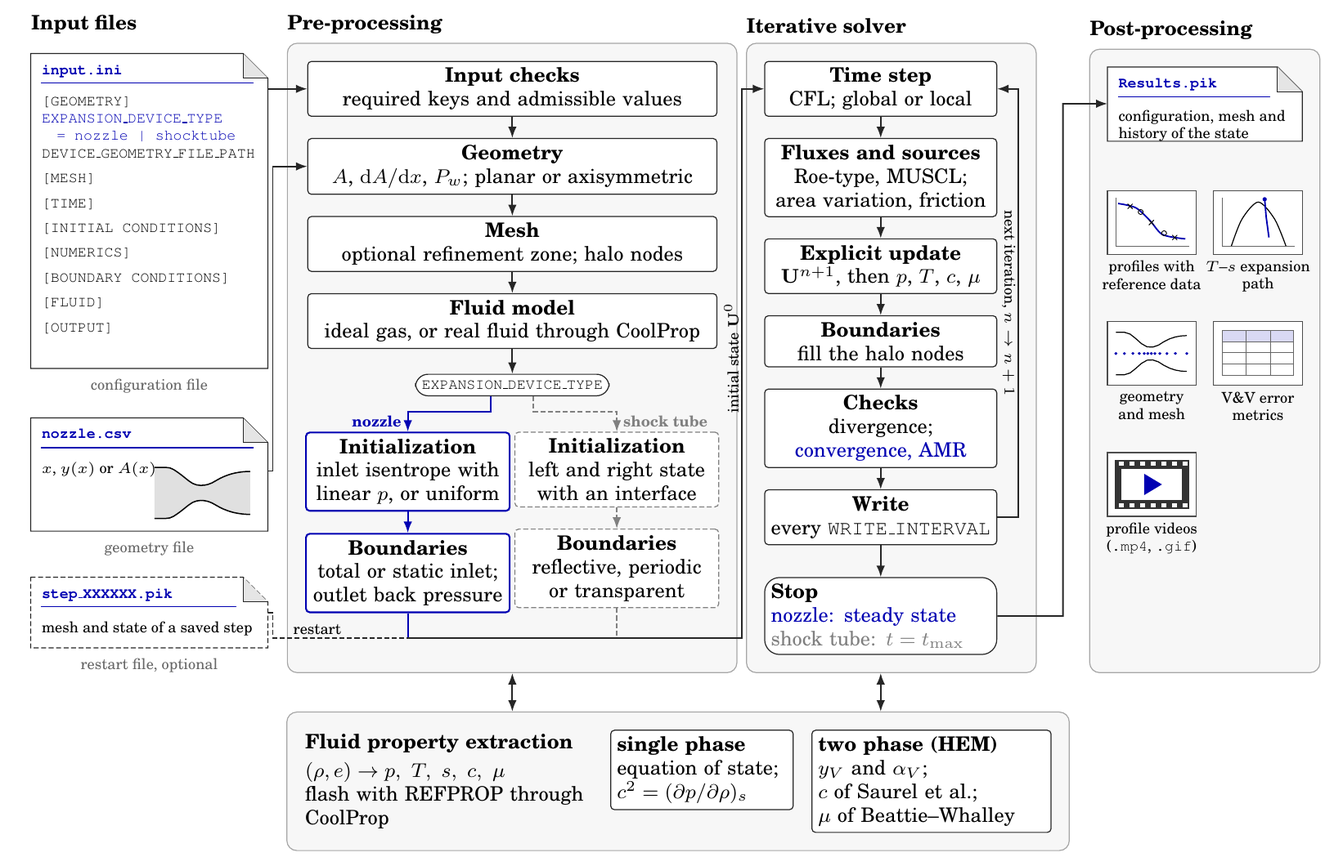
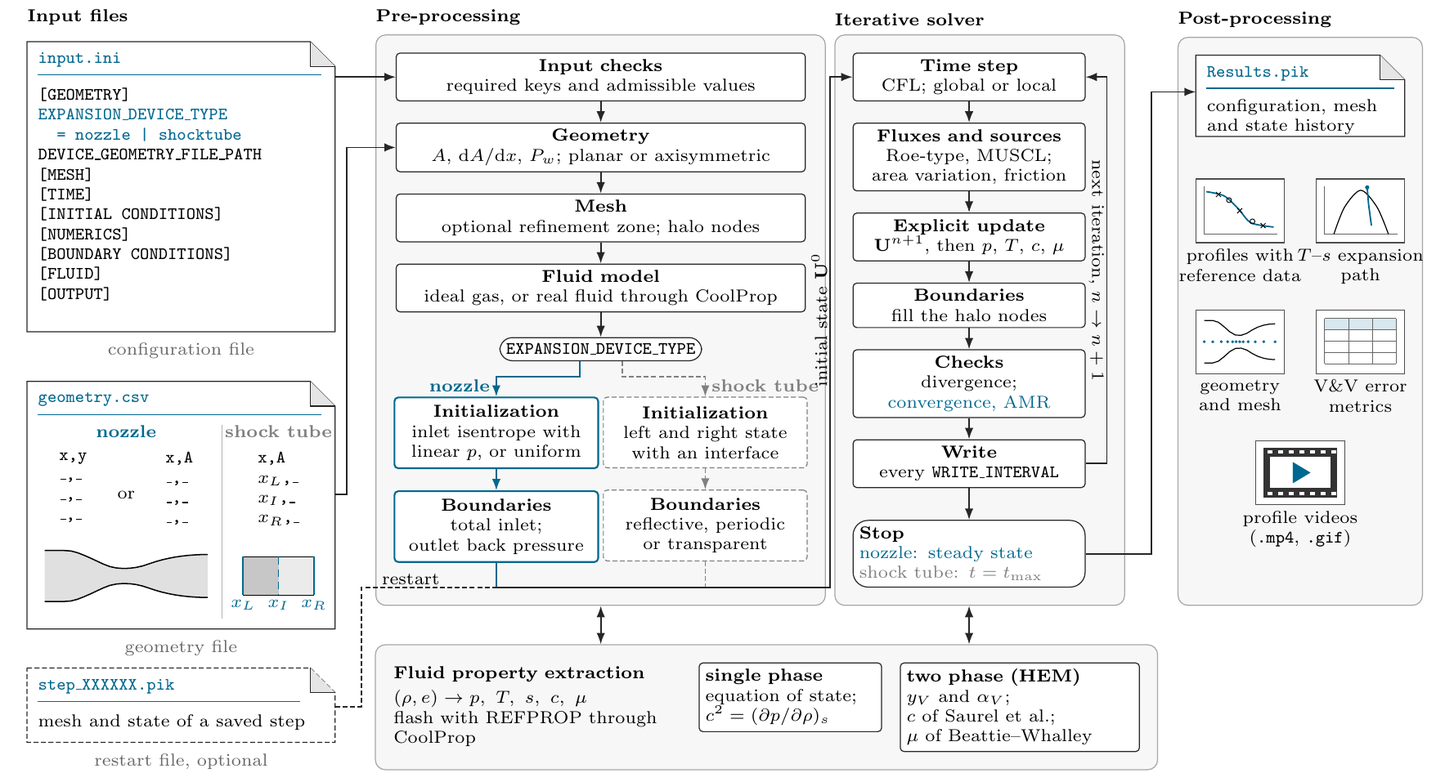
adapted readme and documentation

Changed region(s): [[0.0, 0.0, 0.9939, 1.0], [0.8076, 0.7576, 0.9629, 0.7879], [0.0621, 0.4242, 0.1864, 0.4545]]

diff --git a/README.md b/README.md
@@ -1,73 +1,69 @@
-# Conceptual Heat Pump Cycle (CHPC)
+# PyShockFlow
 
-This tool identifies the vapour-compression cycle with maximum COP for a given set of heat source and heat sink characteristics, heat exchanger pinch-point constraints, component efficiencies and refrigerant. The cycle is a single-stage vapour-compression cycle in which the expansion valve is replaced by a turbine expander. It follows from a differential evolution optimization of the compressor pressure ratio, the temperature and entropy at the compressor inlet, and the temperature at the condenser outlet, subject to the pinch-point constraints of the evaporator and condenser. The figure below shows the resulting cycle of R1234ze(E), together with the expansion through an isentropic turbine and through an expansion valve. The diagram background is generated with [thermoplot](https://github.com/mths-mhln/thermoplot), of which a local copy is included in `src/thermoplot`.
+PyShockFlow solves the quasi-1D Euler equations for the flow of an ideal gas or a real fluid through a duct of varying cross-section. It was originally developed for shock tubes, and has been extended to the steady flow through converging-diverging nozzles, including flashing and condensing two-phase flows. In the two-phase region, the equations are closed by the homogeneous equilibrium model (HEM), with thermophysical properties from NIST REFPROP through CoolProp. The equations are discretized with a finite-volume method, Roe-type numerical fluxes and explicit time marching to the steady state.
 
-The documentation can be found at [mths-mhln.github.io/CHPCT](https://mths-mhln.github.io/CHPCT/).
+The documentation is published at [mths-mhln.github.io/pyshockflow](https://mths-mhln.github.io/pyshockflow/), and covers the installation, running a simulation, all inputs of the configuration file, the model and the post-processing. Its sources are in `docs/`, from which it is built locally with Sphinx:
 
-![Conceptual heat pump cycle of R1234ze(E) in a T-s diagram](images/hp_cycle_TS.png)
+```bash
+uv pip install -r docs/requirements.txt
+cd docs
+make html
+```
 
-## Dependencies
-
-- Python 3.13 or newer
-- CoolProp, matplotlib, numpy, rich and scipy, see `pyproject.toml`. The exact versions are recorded in `uv.lock`.
-- NIST REFPROP. All thermodynamic properties are extracted from REFPROP through CoolProp, hence a REFPROP licence and installation are necessary.
-- A LaTeX installation, which is used for the text in the diagrams.
+after which the pages are found in `docs/build/html/index.html`.
 
 ## Installation
 
-Clone the repository, create a virtual environment with [uv](https://docs.astral.sh/uv/) and install the tool in editable mode, which makes both `CHPC` and the local copy of `thermoplot` importable:
+The tool requires Python 3.12 or newer. Clone the repository, create a virtual environment with [uv](https://docs.astral.sh/uv/) and install the packages in editable mode:
 
 ```bash
-git clone https://github.com/mths-mhln/CHPCT.git
-cd CHPCT
+git clone https://github.com/mths-mhln/pyshockflow.git
+cd pyshockflow
 uv venv
 .venv\Scripts\activate
 uv pip install -e .
 ```
 
-On Linux and macOS the environment is activated with `source .venv/bin/activate`.
+On Linux and macOS the environment is activated with `source .venv/bin/activate`. Real-fluid and two-phase simulations with REFPROP require a REFPROP licence and installation, in a location where CoolProp can find it.
 
-## Source structure
+The installation is checked by running the automated tests from the root folder:
 
-The Python package is organized by responsibility:
-
-| Folder | Contents |
-| --- | --- |
-| `src/CHPC/cycle_evaluation/` | Thermodynamic cycle solvers and cycle data generation |
-| `src/CHPC/post_processing/` | Diagrams and post-processing studies, including the global optimum, perturbation and calculation-method comparisons |
-| `src/CHPC/utils/` | Configuration parsing, result serialization and logging |
-| `src/CHPC/COP_vs_eff/` | COP versus component-efficiency sweep |
+```bash
+uv run pytest test/regression_tests/test_cases.py
+uv run pytest test/integration_tests/test_fluid.py
+```
 
 ## How to run
 
-Running the tool and post-processing its results are separated. `main.py` runs the analysis specified in the config file at the top of the script, and saves the results as `.npz` files in `results/`. Afterwards, `postprocess.py` makes the diagrams from these files:
+A simulation is defined by a configuration file (`.ini`) and a geometry file (`.csv`), and is run from a short script in the folder that contains them:
 
-```bash
-python main.py
-python postprocess.py
+```python
+from pyshockflow import Config, Driver
+
+config = Config(configFilePath="inputs/config_files/lettieri/L1_smooth.ini")
+driver = Driver(config=config)
+driver.solve()
 ```
 
-Before the analysis, `main.py` can verify the model against pocketTHERM for three heat pump cycles (see `test/system_tests`), which is switched on with `perform_verification=True` at the bottom of `main.py`. The refrigerant folders in `config/` contain two kinds of config files:
+The results are written to `Results/<RESULTS_SUBDIRECTORY_NAME>/Results.pik`, and are plotted with the functions in `pyshockflow.post_processing`. The folders in `test/regression_tests/` are the smallest complete examples, and `numerical_experiments/nozzle_steady_two_phase/` contains the two-phase nozzle cases, together with `main.py` and `postprocess.py`.
 
-| Config file | Analysis | Results |
-| --- | --- | --- |
-| `CHPC.ini` | optimizes a single cycle and prints its performance parameters, including the volumetric expansion ratio over the turbine | T-s, p-h and optimizer progress diagrams in `results/heat_pump_thermodynamic_diagrams/<refrigerant>/` |
-| `COP_vs_eff.ini` | optimizes the cycle for a grid of turbine and compressor efficiencies | COP maps in `results/COP_investigations/<refrigerant>/` |
+## Contribution guidelines
 
-The COP sweep saves its progress every 5 cycles, and can be continued after an interruption. The figure below shows the COP map of R1234ze(E).
+- Verify modifications with detailed test cases.
+- Make sure that the regression tests still pass, and extend them if needed.
 
-![COP of R1234ze(E) as a function of the turbine and compressor efficiency](images/COP_vs_eff.png)
+## Authors
 
-The cycle calculation method is selected with `calculation_method`. `full_optimization` optimizes the four variables above, `fixed_PR` optimizes the compressor inlet state and the condenser outlet temperature at a given pressure ratio, and `three_temp_fix` fixes four temperature differences and only optimizes the pressure ratio (the implementation is in `src/CHPC/cycle_evaluation/thermodynamics_three_temp_fix.py`). Results of the latter two methods carry the method in their file name, e.g. `COP_vs_eff_R1234ze(E)_COP_turb_three_temp_fix.npz`, such that the methods can be compared with
+- Francesco Neri, TU Delft, original PyShockFlow
+- Matteo Pini, TU Delft, original PyShockFlow
+- Matthias Van Mechelen, nozzle and two-phase extensions (MSc thesis *Towards Turbine-Induced Expansion in High-Temperature Heat Pumps*, TU Delft, 2026)
 
-```bash
-python -m CHPC.post_processing.calculation_method_comparison --data-dir "results/COP_investigations/R1234ze(E)/data"
-```
+## References
 
-Two investigations support the results of the thesis, and are run as modules from the root of the repository. `python -m CHPC.post_processing.global_optimum_check` repeats the optimization of a cycle for several seeds of the differential evolution algorithm, and shows the coverage of the design space by the evaluated candidates. `python -m CHPC.post_processing.perturbation_study` perturbs the cycle specifications of the R1234ze(E), CO2 and MM config files one at a time by -20 % and +20 %, and evaluates the optimal cycle of every configuration in parallel.
+[1] E. F. Toro, *Riemann Solvers and Numerical Methods for Fluid Dynamics*, Springer, 2009.
 
-`postprocess.py` also contains the empty T-s and p-h diagrams of a substance. The margins around the cycle and the size of the optimizer progress figure are arguments of `make_cycle_plots`, and the diagram backgrounds are specified in `config/thermoplot/`.
+[2] S. Arabi, J.-Y. Trépanier and R. Camarero, "A simple extension of Roe's scheme for real gases", *Journal of Computational Physics* 329, 16-28, 2017.
 
-## Input overview
+[3] A. Cioffi, A. Bergamin, R. Agromayor and F. Haglind, "A hyperbolic one-dimensional model for two-phase flows in converging-diverging nozzles", *Journal of Turbomachinery* 148(3), 031017, 2025.
 
-The config file is an `.ini` file with the sections `[ANALYSIS TYPE]`, `[ANALYSIS SPECIFICATIONS]`, `[COP VS EFF SETTINGS]` (`COP_vs_eff` only) and `[NUMERICS]`, see `config/R1234ze(E)/CHPC.ini` for an example. Inputs that are not used by the specified analysis type and calculation method must not be specified, e.g. `PR` for `full_optimization`. An overview of all inputs is given in the [documentation](https://mths-mhln.github.io/CHPCT/inputs.html).
+[4] S. D'Alessandro, M. Pizzarelli and F. Nasuti, "A hybrid real/ideal gas mixture computational framework to capture wave propagation in liquid rocket combustion chamber conditions", *Aerospace* 8(9), 250, 2021.

diff --git a/docs/source/model.rst b/docs/source/model.rst
@@ -82,7 +82,7 @@ Numerical fluxes
      - averaged pressure derivatives that satisfy the Roe property, after Vinokur and Montagné [Vinokur1990]_
      - ideal gas and real fluid, including the HEM
 
-The Roe-Arabi scheme was used for the two-phase cases of the thesis, since the derivatives of the equilibrium equation of state are discontinuous at the saturation line. The Roe-type schemes optionally apply the entropy fix of Harten and Hyman, which prevents non-physical expansion shocks at a sonic throat. Second-order accuracy in space is obtained with MUSCL reconstruction of the primitive variables, which is not yet robust for all two-phase cases.
+The Roe-Arabi scheme was used for the two-phase cases of the thesis, since the derivatives of the equilibrium equation of state are discontinuous at the saturation line. The Roe-type schemes optionally apply the entropy fix of Harten and Hyman [Harten1983]_, which prevents non-physical expansion shocks at a sonic throat. Second-order accuracy in space is obtained with MUSCL reconstruction of the primitive variables, which is not yet robust for all two-phase cases.
 
 Initialization
 --------------
@@ -127,10 +127,12 @@ The boundary conditions are imposed in the halo nodes, following [Toro2009]_. Th
 
 An outlet switches automatically to a transparent boundary once the Mach number of the adjacent interior node exceeds one. Since the HEM speed of sound is that of the solved system, this switch is consistent with the model in the two-phase region.
 
+Static inlet conditions are not supported. The static inlet state depends on the mass flow, and thus on the solution itself, and a fixed static pressure reflects the acoustic waves that reach the inlet during the transient, which can slow down the convergence.
+
 Wall friction
 -------------
 
-The wall shear stress follows from the Darcy friction factor :math:`f`, evaluated with the correlation of Haaland,
+The wall shear stress follows from the Darcy friction factor :math:`f`, evaluated with the correlation of Haaland [Haaland1983]_,
 
 .. math::
 
@@ -138,7 +140,7 @@ The wall shear stress follows from the Darcy friction factor :math:`f`, evaluate
    \frac{1}{\sqrt{f}} = -1.81\,\log_{10}\left[\frac{6.9}{\mathrm{Re}} + \left(\frac{\varepsilon/D}{3.7}\right)^{1.11}\right], \qquad
    \mathrm{Re} = \frac{\rho |u| D}{\mu},
 
-with :math:`D = 2y` and :math:`\varepsilon` the wall roughness. In the two-phase region, :math:`\mu` is the Beattie-Whalley viscosity, so that the friction relies on a single-phase correlation with a mixture viscosity.
+with :math:`D = 2y` and :math:`\varepsilon` the wall roughness. In the two-phase region, :math:`\mu` is the Beattie-Whalley viscosity [Beattie1982]_, so that the friction relies on a single-phase correlation with a mixture viscosity. Both were derived for flows in channels of constant cross-section, and have not been validated for short, strongly accelerating two-phase nozzle flows. Wall friction is optional, so that the frictionless solution, against which other authors report their results, remains available.
 
 Convergence and mesh refinement
 -------------------------------
@@ -151,15 +153,17 @@ A nozzle simulation counts an iteration as converged if
 
 and stops once this holds for :math:`N_p` consecutive iterations (``CONVERGENCE_TOLERANCE`` and ``CONVERGENCE_PATIENCE``). The maximum norm does not let a large local change be averaged out over the domain, and the patience prevents a stop during a momentary stagnation of the transient.
 
-With the automated mesh refinement, the number of nodes is doubled after every converged solution, the converged density, velocity and pressure are interpolated onto the new mesh, and the time marching restarts. Since the first converged solution has no coarser counterpart, the mesh is refined at least once. The refinement ends when the solutions on two successive meshes differ by less than ``RELATIVE_AMR_TOLERANCE``. Despite its name, the option refines the entire mesh rather than local regions.
+Converging a fine mesh from the initial field can take long, and most of this time is spent on the transient, which need not be resolved on the final mesh. With the automated mesh refinement, the simulation therefore starts on a coarse mesh, and the number of nodes is doubled after every converged solution, the converged density, velocity and pressure are interpolated onto the new mesh, and the time marching restarts. Since the first converged solution has no coarser counterpart, the mesh is refined at least once. The refinement ends when the solutions on two successive meshes differ by less than ``RELATIVE_AMR_TOLERANCE``, so that the comparison of successive meshes doubles as a mesh convergence study. For the cases of Berana et al., this reduced the run time from up to 20 hours to 1.5 hours. Despite its name, the option refines the entire mesh rather than local regions.
 
 Limitations
 -----------
 
 - Equilibrium only: metastable liquid, delayed flashing and finite-rate phase change are not resolved, so the critical mass flux of short nozzles with subcooled or low-quality inlets is under-predicted.
 - Quasi-1D: boundary layers, oblique shocks and lateral phase separation are absent. Planar nozzles are treated with unit depth, which underestimates the friction on the side walls of narrow test sections.
-- The discontinuous HEM speed of sound can destabilize the Roe-type schemes at low vapour fractions.
-- The explicit scheme is limited by the CFL condition, and the iterative :math:`(\rho, e)` flash dominates the run time of a two-phase simulation.
+- Closures: the walls are adiabatic, and the two-phase friction relies on a single-phase correlation with a mixture viscosity.
+- Outlet: once the exit is supersonic, the outlet becomes transparent. A back pressure high enough to drive a shock into the nozzle is therefore ignored if the exit becomes supersonic during the transient, so that the converged solution can depend on the initialization.
+- The discontinuous HEM speed of sound can destabilize the Roe-type schemes at low vapour fractions, and MUSCL reconstruction is not yet robust for all two-phase cases.
+- The explicit scheme is limited by the CFL condition, and the iterative :math:`(\rho, e)` flash dominates the run time of a two-phase simulation. Case L1 of Lettieri et al. runs in about 3 minutes, the cases of Berana et al. in 1.5 hours with the automated mesh refinement.
 
 References
 ----------
@@ -169,5 +173,8 @@ References
 .. [Arabi2017] S. Arabi, J.-Y. Trépanier and R. Camarero, "A simple extension of Roe's scheme for real gases", *Journal of Computational Physics* 329, 16-28, 2017.
 .. [Vinokur1990] M. Vinokur and J.-L. Montagné, "Generalized flux-vector splitting and Roe average for an equilibrium real gas", *Journal of Computational Physics* 89(2), 276-300, 1990.
 
-.. [Cioffi2025] A. Cioffi, A. Bergamin, R. Agromayor and F. Haglind, "A hyperbolic one-dimensional model for two-phase flows in converging-diverging nozzles", *Journal of Turbomachinery* 148(3), 031017, 2026.
+.. [Cioffi2025] A. Cioffi, A. Bergamin, R. Agromayor and F. Haglind, "A hyperbolic one-dimensional model for two-phase flows in converging-diverging nozzles", *Journal of Turbomachinery* 148(3), 031017, 2025.
+.. [Harten1983] A. Harten and J. M. Hyman, "Self-adjusting grid methods for one-dimensional hyperbolic conservation laws", *Journal of Computational Physics* 50(2), 235-269, 1983.
+.. [Haaland1983] S. E. Haaland, "Simple and explicit formulas for the friction factor in turbulent pipe flow", *Journal of Fluids Engineering* 105(1), 89-90, 1983.
+.. [Beattie1982] D. R. H. Beattie and P. B. Whalley, "A simple two-phase frictional pressure drop calculation method", *International Journal of Multiphase Flow* 8(1), 83-87, 1982.
 .. [Toro2009] E. F. Toro, *Riemann Solvers and Numerical Methods for Fluid Dynamics*, 3rd ed., Springer, 2009.

diff --git a/docs/source/post_processing.rst b/docs/source/post_processing.rst
@@ -6,7 +6,7 @@ Running the solver and post-processing its results are separated. The results fi
 Results file
 ------------
 
-``Results.pik`` is a pickled dictionary with the keys ``config``, ``deviceGeometryData``, ``meshData``, ``iterIdxHistory``, ``timeHistory`` and ``fluidStateHistory``. The latter maps every fluid state variable, such as ``Density``, ``Velocity``, ``Pressure`` and ``staticInternalEnergy``, to an array with one row per mesh node and one column per saved step. The data can therefore also be read directly:
+``Results.pik`` is a pickled dictionary with the keys ``config``, ``deviceGeometryData``, ``meshData``, ``iterIdxHistory``, ``timeHistory`` and ``fluidStateHistory`` (:numref:`fig-output-files`). The latter maps every fluid state variable, such as ``Density``, ``Velocity``, ``Pressure`` and ``staticInternalEnergy``, to an array with one row per mesh node and one column per saved step. The data can therefore also be read directly:
 
 .. code-block:: python
 
@@ -32,20 +32,22 @@ All functions take a list of results folders, so that several simulations can be
    * - Function
      - Output
    * - ``expansion_device_geometry_plot``
-     - nozzle contour, area distribution and mesh, optionally with the halo nodes; from a configuration file, before the simulation, or from a results folder
+     - nozzle contour and mesh nodes, optionally with the halo nodes; from a configuration file, before the simulation, or from a results folder
    * - ``generate_fluid_state_var_profile_figs``
-     - profiles of ``Density``, ``Pressure``, ``Velocity``, ``internalEnergy``, ``Mach``, ``Entropy`` or ``Temperature`` at selected iterations, optionally with reference data and the nozzle contour
+     - profiles of ``Density``, ``Pressure``, ``Velocity``, ``internalEnergy``, ``Mach``, ``Entropy`` or ``Temperature`` at selected iterations, optionally with reference data, the nozzle contour and the mesh nodes
    * - ``compute_v_and_v_metrics``
-     - maximum absolute and relative errors with respect to the reference data, printed as a table and returned as a dictionary
+     - absolute and relative errors at the points of the reference data, returned as a dictionary; their maxima are printed as a table
    * - ``generate_expansion_thermoplot``
      - expansion paths in a T-s diagram, drawn with Thermoplot
    * - ``render_profile_video``
      - video of the evolution of a profile during the time marching, optionally with the unconverged nodes highlighted
 
+By default, ``generate_fluid_state_var_profile_figs`` saves every figure as a PDF file in ``Figures/``, in a folder named after the configuration file of the case, e.g. ``Figures/lettieri/L1_friction/Pressure__iter_2500.pdf``; a figure that compares several cases goes to a ``compare__`` folder. The default figure width equals the text width of the thesis, so that the fonts appear at their true size when a figure is included at its own width; ``figureSize`` and ``fontSize`` adapt this. ``use_plot_style`` gives other figures the same style.
+
 Reference data
 --------------
 
-Verification and validation data are passed as ``VandVSpec`` objects. A ``VandVSpec`` maps the name of a fluid state variable to one or more CSV files, each with the header ``deviceX,<variable>``, and optionally to legend labels. In the figures, verification data are drawn as crosses and validation data as circles. The file with the verification data of case L1, for example, starts as follows:
+Verification and validation data are passed as ``VandVSpec`` objects. A ``VandVSpec`` maps the name of a fluid state variable to one or more CSV files, each with the header ``deviceX,<variable>``, and optionally to legend labels. In the figures, verification data are drawn as dashed lines and validation data as markers. The file with the verification data of case L1, for example, starts as follows:
 
 .. code-block:: text
 
@@ -54,7 +56,7 @@ Verification and validation data are passed as ``VandVSpec`` objects. A ``VandVS
    0.001583403,5824421.96
    ...
 
-The example below plots the pressure and Mach number of case L1 against the results of Cioffi et al., computes the errors, and draws the expansion path:
+The example below plots the pressure and Mach number of case L1 with wall friction against the results of Cioffi et al. and the measurements of Lettieri et al., computes the errors, and draws the expansion path:
 
 .. code-block:: python
 
@@ -67,54 +69,55 @@ The example below plots the pressure and Mach number of case L1 against the resu
    )
 
    verificationData = VandVSpec(
-       paths={"Pressure": "verification_data/lettieri/L1_smooth__pressure.csv"},
+       paths={"Pressure": "verification_data/lettieri/L1_friction__pressure.csv"},
        legend_labels={"Pressure": "Cioffi et al."},
+   )
+   validationData = VandVSpec(
+       paths={"Pressure": "validation_data/lettieri/L1_friction__pressure.csv"},
+       legend_labels={"Pressure": "Lettieri et al."},
    )
 
    generate_fluid_state_var_profile_figs(
-       resultsFolders=["Results/lettieri/output_L1_smooth"],
+       resultsFolders=["Results/lettieri/output_L1_friction"],
        fluidStateVarNames=["Pressure", "Mach"],
        iterationIndexes=[-1],
-       simulationLegendLabels=["L1 smooth"],
+       simulationLegendLabels=["L1 friction"],
        verificationData=verificationData,
+       validationData=validationData,
        showNozzleGeometry=True,
    )
 
    compute_v_and_v_metrics(
-       resultsFolders=["Results/lettieri/output_L1_smooth"],
+       resultsFolders=["Results/lettieri/output_L1_friction"],
        fluidStateVarNames=["Pressure"],
        verificationData=verificationData,
    )
 
    generate_expansion_thermoplot(
-       resultsFolders=["Results/lettieri/output_L1_smooth"],
+       resultsFolders=["Results/lettieri/output_L1_friction"],
        iterationIndexes=[-1],
-       simulationLegendLabels=["L1 smooth"],
+       simulationLegendLabels=["L1 friction"],
        thermoplotConfigFilePath="inputs/thermoplot/CO2.ini",
    )
    plt.show()
 
 .. _fig-profiles:
 
-.. figure:: _static/figures/placeholder_profiles.png
+.. figure:: _static/figures/profiles.png
    :width: 90%
-   :alt: Pressure and Mach number profiles with verification data
+   :alt: Pressure profile with verification and validation data
 
-   Pressure and Mach number profiles of case L1 of Lettieri et al., with the verification data of Cioffi et al. and the nozzle contour.
-
-.. this figure is a placeholder: replace placeholder_profiles.png by the output of generate_fluid_state_var_profile_figs
+   Pressure profile of case L1 of Lettieri et al., as plotted by the example above, with the results of Cioffi et al. (verification), the measurements of Lettieri et al. (validation) and the nozzle contour.
 
 The background of the T-s diagram, i.e. the fluid, the region of interest and the isolines, is set in a Thermoplot configuration file, of which examples are found in ``numerical_experiments/nozzle_steady_two_phase/inputs/thermoplot/``.
 
 .. _fig-expansion-path:
 
-.. figure:: _static/figures/placeholder_expansion_path.png
+.. figure:: _static/figures/expansion_path.png
    :width: 70%
    :alt: Expansion path in the T-s diagram
 
-   Expansion path of a two-phase CO2 nozzle flow in the T-s diagram.
-
-.. this figure is a placeholder: replace placeholder_expansion_path.png by the output of generate_expansion_thermoplot
+   Expansion path of case L1 of Lettieri et al. in the T-s diagram, as plotted by the example above.
 
 Videos
 ------

diff --git a/docs/source/running.rst b/docs/source/running.rst
@@ -50,7 +50,15 @@ The console first summarizes the fluid, the boundary conditions and the numerica
 
 where the residuals are the base-10 logarithm of the norm of the residual of the mass, momentum and energy equation, divided by the number of nodes. Note that these residuals are not the quantity on which the convergence check acts. The refinement steps of the automated mesh refinement and the warnings are printed as well.
 
-The results are written to ``Results/<RESULTS_SUBDIRECTORY_NAME>``. During the run, the state in all nodes is saved every ``WRITE_INTERVAL`` iterations to a file ``step_XXXXXX.pik``, with ``XXXXXX`` the iteration number. At the end of the run, these files are assembled into a single file ``Results.pik``, which contains the configuration, the mesh and the history of all saved steps, and the individual step files are removed. If the results folder already exists and ``OVERWRITE_RESULTS`` is ``False``, a counter is added to the folder name, e.g. ``output_L1_smooth_1``.
+The results are written to ``Results/<RESULTS_SUBDIRECTORY_NAME>``. During the run, the state in all nodes is saved every ``WRITE_INTERVAL`` iterations to a file ``step_XXXXXX.pik``, with ``XXXXXX`` the iteration number. At the end of the run, these files are assembled into a single file ``Results.pik``, which contains the configuration, the mesh and the history of all saved steps, and the individual step files are removed. If the results folder already exists and ``OVERWRITE_RESULTS`` is ``False``, a counter is added to the folder name, e.g. ``output_L1_smooth_1``. Both files are pickled Python dictionaries, of which :numref:`fig-output-files` shows the contents.
+
+.. _fig-output-files:
+
+.. figure:: _static/figures/output_files.png
+   :width: 100%
+   :alt: Contents of the step and results files
+
+   Contents of the step and results files. Indented keys belong to the nested dictionary above them.
 
 Restarting a simulation
 -----------------------

diff --git a/docs/source/installation.rst b/docs/source/installation.rst
@@ -6,7 +6,7 @@ Requirements
 
 - Python 3.12 or newer.
 - The packages listed in ``pyproject.toml``, among which CoolProp 6.8.0, NumPy, SciPy, Matplotlib and Pandas. The exact versions are recorded in ``uv.lock``. NumPy is pinned to 2.2.1, since the post-processing still relies on ``numpy.compat``.
-- NIST REFPROP, for real-fluid and two-phase simulations. REFPROP is licensed software and must be installed separately, in a location where CoolProp can find it. On Windows, the default installation folder is found automatically; otherwise the path is set with ``CoolProp.CoolProp.set_config_string(CoolProp.CoolProp.ALTERNATIVE_REFPROP_PATH, path)``. Ideal-gas simulations, and real-fluid simulations with the HEOS backend of CoolProp, do not need REFPROP.
+- NIST REFPROP, for real-fluid and two-phase simulations. REFPROP is licensed software and must be installed separately, in a location where CoolProp can find it. On Windows, the default installation folder is found automatically; otherwise the path is set with ``CoolProp.CoolProp.set_config_string(CoolProp.CoolProp.ALTERNATIVE_REFPROP_PATH, path)``. Ideal-gas simulations, and real-fluid simulations with the HEOS backend of CoolProp, do not need REFPROP, but the T-s diagrams of the post-processing do.
 - Optionally FFmpeg, either as a system installation or through the ``imageio-ffmpeg`` package. Videos are written as MP4 files if FFmpeg is available, and as GIF files otherwise.
 
 Installing the tool

diff --git a/docs/source/configuration.rst b/docs/source/configuration.rst
@@ -381,13 +381,11 @@ From the geometry, the tool computes the area, its derivative and the wetted per
 
 .. _fig-geometry-mesh:
 
-.. figure:: _static/figures/placeholder_geometry_mesh.png
-   :width: 90%
+.. figure:: _static/figures/geometry_mesh.png
+   :width: 100%
    :alt: Geometry and mesh of the Lettieri nozzle
 
-   Nozzle contour, area distribution and mesh of the nozzle of Lettieri et al., with a refinement zone and the halo nodes.
-
-.. this figure is a placeholder: replace placeholder_geometry_mesh.png by the output of expansion_device_geometry_plot
+   Nozzle contour and mesh of the nozzle of Lettieri et al., with a refinement zone around the throat and the halo nodes, plotted with ``expansion_device_geometry_plot``.
 
 Example
 -------

diff --git a/docs/source/index.rst b/docs/source/index.rst
@@ -36,7 +36,7 @@ The table below summarizes what can be selected in the configuration file.
    * - Thermodynamic region
      - liquid, vapour, supercritical and two-phase (HEM) states
    * - Inlet
-     - total :math:`(p_0, T_0)` or :math:`(p_0, y_V)`, or static :math:`(p, T)` or :math:`(p, y_V)`
+     - total :math:`(p_0, T_0)` or :math:`(p_0, y_V)`
    * - Outlet
      - back pressure, with an automatic switch to a transparent boundary once the outflow is supersonic
    * - Other boundaries

diff --git a/docs/source/api.rst b/docs/source/api.rst
@@ -27,3 +27,5 @@ Post-processing
 .. autofunction:: pyshockflow.post_processing.generate_expansion_thermoplot
 
 .. autofunction:: pyshockflow.post_processing.render_profile_video
+
+.. autofunction:: pyshockflow.post_processing.use_plot_style
